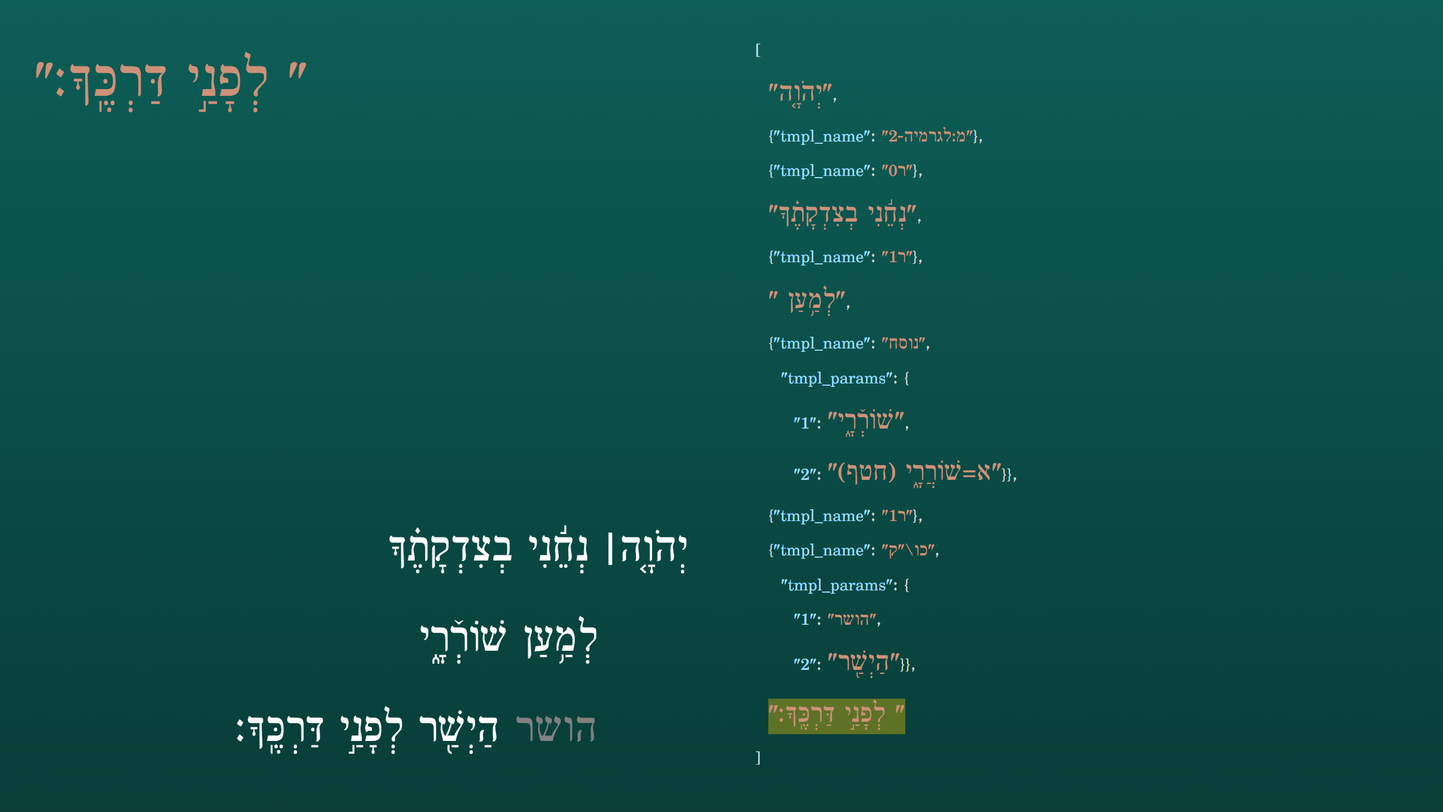
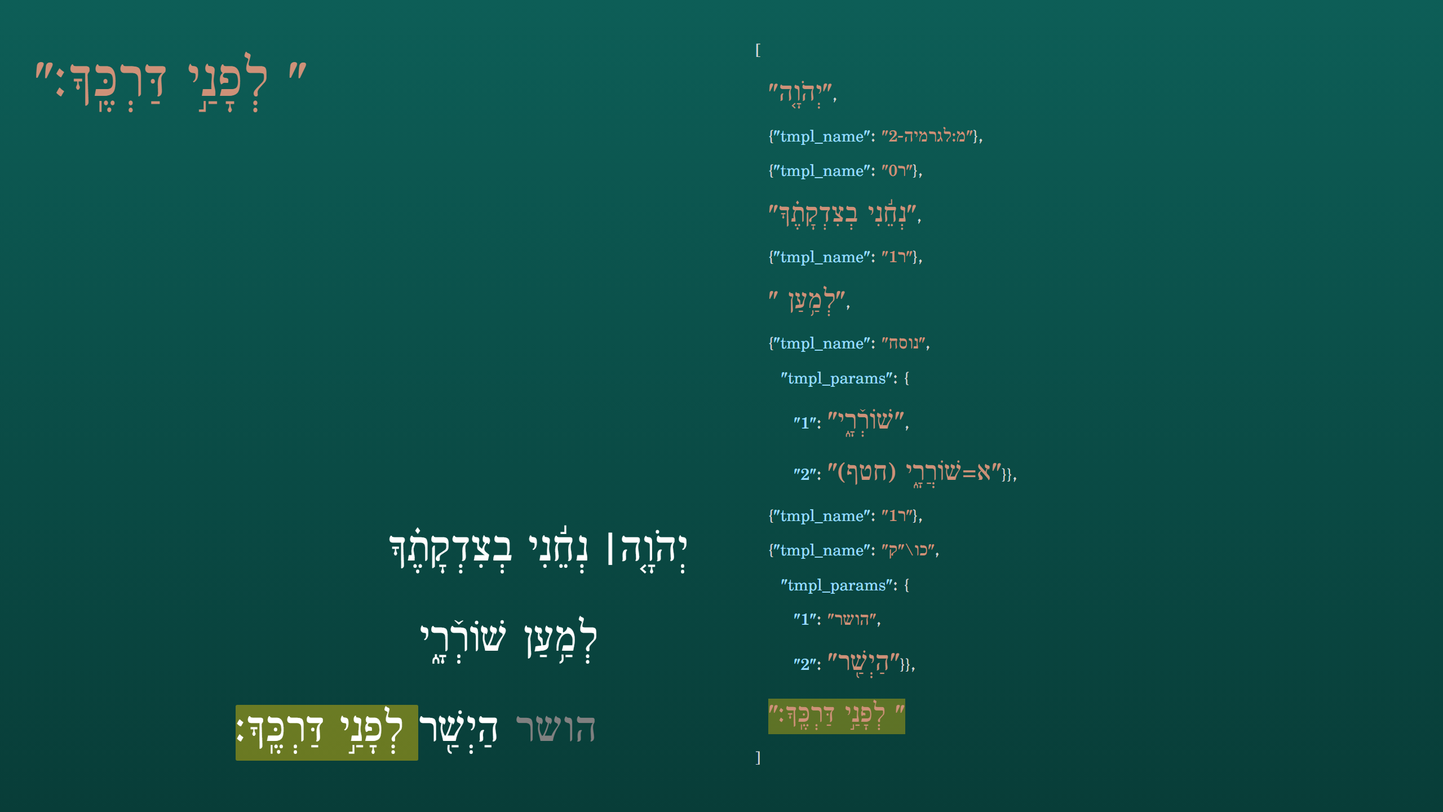
slide: replace companion_raw_replacements with companion_hl_ids mechanism
Introduce a cleaner approach for per-step companion-panel highlighting:

- Fragment (Psalm 5v9 Wikisource fragment.html): wrap every highlightable
  node in a span with a unique data-hl-id. rs1/rs2 (line-break symbols)
  and ind1/ind2 (indent spans) are now ordinary tagged elements; no
  display:none or class-based visibility tricks in the source.

- Engine (json_snippet_browser.py): collect scoped CSS rules of the form
  .step[data-step="N"] [data-hl-id="X"] { ... } during the step loop and
  inject them into the <head> stylesheet. The companion HTML is a single
  static string, unchanged across all steps. Remove companion_raw_replacements
  handling entirely.

- Step specs (mam_is_a_dataset.py): replace all companion_highlight_html
  and companion_raw_replacements keys with companion_hl_ids lists. Ensure
  coverage: thinsp is now inside the paseq span (step 2); step 9 covers
  hoshar + the space + hayashar; step 10 covers only the last JSON string.
  Every character in the verse is highlighted at exactly one step.

Changed region(s): [[0.1562, 0.8438, 0.3125, 0.9375]]

diff --git a/misc/mam-is-a-dataset/img-sources/slide-psalm-5v9-mpplus-interactive.html b/misc/mam-is-a-dataset/img-sources/slide-psalm-5v9-mpplus-interactive.html
@@ -48,6 +48,9 @@
     background-color: rgba(255, 210, 0, 0.4);
     border-radius: 3px;
   }
+  [data-hl-id="rs1"], [data-hl-id="rs2"] {
+    display: none;
+  }
   pre {
     font-family: 'Taamey', 'Consolas', monospace;
     font-size: 34px;
@@ -56,12 +59,26 @@
     unicode-bidi: normal;
     white-space: pre;
   }
+  .step[data-step="1"] [data-hl-id="yhvh"] { background-color: rgba(255,210,0,0.4); border-radius: 3px; display: inline; }
+  .step[data-step="2"] [data-hl-id="paseq"] { background-color: rgba(255,210,0,0.4); border-radius: 3px; display: inline; }
+  .step[data-step="3"] [data-hl-id="nbsp"] { background-color: rgba(255,210,0,0.4); border-radius: 3px; display: inline; }
+  .step[data-step="4"] [data-hl-id="text1"] { background-color: rgba(255,210,0,0.4); border-radius: 3px; display: inline; }
+  .step[data-step="5"] [data-hl-id="rs1"] { background-color: rgba(255,210,0,0.4); border-radius: 3px; display: inline; }
+  .step[data-step="5"] [data-hl-id="ind1"] { background-color: rgba(255,210,0,0.4); border-radius: 3px; display: inline; }
+  .step[data-step="6"] [data-hl-id="lmaan"] { background-color: rgba(255,210,0,0.4); border-radius: 3px; display: inline; }
+  .step[data-step="7"] [data-hl-id="shoraray"] { background-color: rgba(255,210,0,0.4); border-radius: 3px; display: inline; }
+  .step[data-step="8"] [data-hl-id="rs2"] { background-color: rgba(255,210,0,0.4); border-radius: 3px; display: inline; }
+  .step[data-step="8"] [data-hl-id="ind2"] { background-color: rgba(255,210,0,0.4); border-radius: 3px; display: inline; }
+  .step[data-step="9"] [data-hl-id="hoshar"] { background-color: rgba(255,210,0,0.4); border-radius: 3px; display: inline; }
+  .step[data-step="9"] [data-hl-id="kuk-space"] { background-color: rgba(255,210,0,0.4); border-radius: 3px; display: inline; }
+  .step[data-step="9"] [data-hl-id="hayashar"] { background-color: rgba(255,210,0,0.4); border-radius: 3px; display: inline; }
+  .step[data-step="10"] [data-hl-id="text3"] { background-color: rgba(255,210,0,0.4); border-radius: 3px; display: inline; }
 </style>
 </head>
 <body>
-<div class="step" data-step="0"><div class="col"><div class="companion-html"><div>יְהֹוָ֤ה&thinsp;<span style="font-weight: bold;">׀</span>&nbsp;נְחֵ֬נִי בְצִדְקָתֶ֗ךָ<span class="return-sym" style="display:none;">⏎</span></div>
-<div><span class="indent">&emsp;&emsp;</span>לְמַ֥עַן שׁוֹרְﬞרָ֑י</div>
-<div style="padding-right: 2em;"><span style="color:Gray;">הושר</span> הַיְשַׁ֖ר לְפָנַ֣י דַּרְכֶּֽךָ׃</div></div></div><div class="col" style="justify-content:flex-start"><pre><span style="color:#d4d4d4;">[</span><span style="color:#d4d4d4;">
+<div class="step" data-step="0"><div class="col"><div class="companion-html"><div><span data-hl-id="yhvh">יְהֹוָ֤ה</span><span data-hl-id="paseq">&thinsp;<span style="font-weight: bold;">׀</span></span><span data-hl-id="nbsp">&nbsp;</span><span data-hl-id="text1">נְחֵ֬נִי בְצִדְקָתֶ֗ךָ</span><span data-hl-id="rs1">⏎</span></div>
+<div><span data-hl-id="ind1">&emsp;&emsp;</span><span data-hl-id="lmaan">לְמַ֥עַן </span><span data-hl-id="shoraray">שׁוֹרְﬞרָ֑י</span><span data-hl-id="rs2">⏎</span></div>
+<div><span data-hl-id="ind2">&emsp;&emsp;</span><span data-hl-id="hoshar" style="color:Gray;">הושר</span><span data-hl-id="kuk-space"> </span><span data-hl-id="hayashar">הַיְשַׁ֖ר</span><span data-hl-id="text3"> לְפָנַ֣י דַּרְכֶּֽךָ׃</span></div></div></div><div class="col" style="justify-content:flex-start"><pre><span style="color:#d4d4d4;">[</span><span style="color:#d4d4d4;">
   </span><bdi><span style="color:#ce9178; font-size:51px; font-feature-settings:'ss03'">"יְהֹוָ֤ה"</span></bdi><span style="color:#d4d4d4;">,</span><span style="color:#d4d4d4;">
   </span><span style="color:#d4d4d4;">{</span><span style="color:#9cdcfe;">"tmpl_name"</span><span style="color:#d4d4d4;">:</span><span style="color:#d4d4d4;"> </span><bdi><span style="color:#ce9178;">"מ:לגרמיה-2"</span></bdi><span style="color:#d4d4d4;">},</span><span style="color:#d4d4d4;">
   </span><span style="color:#d4d4d4;">{</span><span style="color:#9cdcfe;">"tmpl_name"</span><span style="color:#d4d4d4;">:</span><span style="color:#d4d4d4;"> </span><bdi><span style="color:#ce9178;">"ר0"</span></bdi><span style="color:#d4d4d4;">},</span><span style="color:#d4d4d4;">
@@ -80,9 +97,9 @@
   </span><bdi><span style="color:#ce9178; font-size:51px; font-feature-settings:'ss03'">" לְפָנַ֣י דַּרְכֶּֽךָ׃"</span></bdi><span style="color:#d4d4d4;">
 </span><span style="color:#d4d4d4;">]</span><span style="color:#d4d4d4;">
 </span></pre></div></div>
-<div class="step" data-step="1"><div class="col" style="flex:2;flex-direction:column;justify-content:space-between;align-items:flex-start"><pre><bdi><span style="color:#ce9178; font-size:102px; font-feature-settings:'ss03'">"יְהֹוָ֤ה"</span></bdi></pre><div class="companion-html"><div><span class="hl">יְהֹוָ֤ה</span>&thinsp;<span style="font-weight: bold;">׀</span>&nbsp;נְחֵ֬נִי בְצִדְקָתֶ֗ךָ<span class="return-sym" style="display:none;">⏎</span></div>
-<div><span class="indent">&emsp;&emsp;</span>לְמַ֥עַן שׁוֹרְﬞרָ֑י</div>
-<div style="padding-right: 2em;"><span style="color:Gray;">הושר</span> הַיְשַׁ֖ר לְפָנַ֣י דַּרְכֶּֽךָ׃</div></div></div><div class="col" style="flex:2;justify-content:flex-start"><pre><span style="color:#d4d4d4;">[</span><span style="color:#d4d4d4;">
+<div class="step" data-step="1"><div class="col" style="flex:2;flex-direction:column;justify-content:space-between;align-items:flex-start"><pre><bdi><span style="color:#ce9178; font-size:102px; font-feature-settings:'ss03'">"יְהֹוָ֤ה"</span></bdi></pre><div class="companion-html"><div><span data-hl-id="yhvh">יְהֹוָ֤ה</span><span data-hl-id="paseq">&thinsp;<span style="font-weight: bold;">׀</span></span><span data-hl-id="nbsp">&nbsp;</span><span data-hl-id="text1">נְחֵ֬נִי בְצִדְקָתֶ֗ךָ</span><span data-hl-id="rs1">⏎</span></div>
+<div><span data-hl-id="ind1">&emsp;&emsp;</span><span data-hl-id="lmaan">לְמַ֥עַן </span><span data-hl-id="shoraray">שׁוֹרְﬞרָ֑י</span><span data-hl-id="rs2">⏎</span></div>
+<div><span data-hl-id="ind2">&emsp;&emsp;</span><span data-hl-id="hoshar" style="color:Gray;">הושר</span><span data-hl-id="kuk-space"> </span><span data-hl-id="hayashar">הַיְשַׁ֖ר</span><span data-hl-id="text3"> לְפָנַ֣י דַּרְכֶּֽךָ׃</span></div></div></div><div class="col" style="flex:2;justify-content:flex-start"><pre><span style="color:#d4d4d4;">[</span><span style="color:#d4d4d4;">
   </span><bdi><span style="color:#ce9178; background-color:rgba(255,210,0,0.35); font-size:51px; font-feature-settings:'ss03'">"יְהֹוָ֤ה"</span></bdi><span style="color:#d4d4d4;">,</span><span style="color:#d4d4d4;">
   </span><span style="color:#d4d4d4;">{</span><span style="color:#9cdcfe;">"tmpl_name"</span><span style="color:#d4d4d4;">:</span><span style="color:#d4d4d4;"> </span><bdi><span style="color:#ce9178;">"מ:לגרמיה-2"</span></bdi><span style="color:#d4d4d4;">},</span><span style="color:#d4d4d4;">
   </span><span style="color:#d4d4d4;">{</span><span style="color:#9cdcfe;">"tmpl_name"</span><span style="color:#d4d4d4;">:</span><span style="color:#d4d4d4;"> </span><bdi><span style="color:#ce9178;">"ר0"</span></bdi><span style="color:#d4d4d4;">},</span><span style="color:#d4d4d4;">
@@ -101,9 +118,9 @@
   </span><bdi><span style="color:#ce9178; font-size:51px; font-feature-settings:'ss03'">" לְפָנַ֣י דַּרְכֶּֽךָ׃"</span></bdi><span style="color:#d4d4d4;">
 </span><span style="color:#d4d4d4;">]</span><span style="color:#d4d4d4;">
 </span></pre></div></div>
-<div class="step" data-step="2"><div class="col" style="flex:2;flex-direction:column;justify-content:space-between;align-items:flex-start"><pre><span style="color:#d4d4d4; font-size:102px; font-feature-settings:'ss03'">{</span><span style="color:#9cdcfe; font-size:102px; font-feature-settings:'ss03'">"tmpl_name"</span><span style="color:#d4d4d4; font-size:102px; font-feature-settings:'ss03'">:</span><span style="color:#d4d4d4; font-size:102px; font-feature-settings:'ss03'"> </span><bdi><span style="color:#ce9178; font-size:102px; font-feature-settings:'ss03'">"מ:לגרמיה-2"</span></bdi><span style="color:#d4d4d4; font-size:102px; font-feature-settings:'ss03'">}</span></pre><div class="companion-html"><div>יְהֹוָ֤ה<span class="hl">&thinsp;<span style="font-weight: bold;">׀</span></span>&nbsp;נְחֵ֬נִי בְצִדְקָתֶ֗ךָ<span class="return-sym" style="display:none;">⏎</span></div>
-<div><span class="indent">&emsp;&emsp;</span>לְמַ֥עַן שׁוֹרְﬞרָ֑י</div>
-<div style="padding-right: 2em;"><span style="color:Gray;">הושר</span> הַיְשַׁ֖ר לְפָנַ֣י דַּרְכֶּֽךָ׃</div></div></div><div class="col" style="flex:2;justify-content:flex-start"><pre><span style="color:#d4d4d4;">[</span><span style="color:#d4d4d4;">
+<div class="step" data-step="2"><div class="col" style="flex:2;flex-direction:column;justify-content:space-between;align-items:flex-start"><pre><span style="color:#d4d4d4; font-size:102px; font-feature-settings:'ss03'">{</span><span style="color:#9cdcfe; font-size:102px; font-feature-settings:'ss03'">"tmpl_name"</span><span style="color:#d4d4d4; font-size:102px; font-feature-settings:'ss03'">:</span><span style="color:#d4d4d4; font-size:102px; font-feature-settings:'ss03'"> </span><bdi><span style="color:#ce9178; font-size:102px; font-feature-settings:'ss03'">"מ:לגרמיה-2"</span></bdi><span style="color:#d4d4d4; font-size:102px; font-feature-settings:'ss03'">}</span></pre><div class="companion-html"><div><span data-hl-id="yhvh">יְהֹוָ֤ה</span><span data-hl-id="paseq">&thinsp;<span style="font-weight: bold;">׀</span></span><span data-hl-id="nbsp">&nbsp;</span><span data-hl-id="text1">נְחֵ֬נִי בְצִדְקָתֶ֗ךָ</span><span data-hl-id="rs1">⏎</span></div>
+<div><span data-hl-id="ind1">&emsp;&emsp;</span><span data-hl-id="lmaan">לְמַ֥עַן </span><span data-hl-id="shoraray">שׁוֹרְﬞרָ֑י</span><span data-hl-id="rs2">⏎</span></div>
+<div><span data-hl-id="ind2">&emsp;&emsp;</span><span data-hl-id="hoshar" style="color:Gray;">הושר</span><span data-hl-id="kuk-space"> </span><span data-hl-id="hayashar">הַיְשַׁ֖ר</span><span data-hl-id="text3"> לְפָנַ֣י דַּרְכֶּֽךָ׃</span></div></div></div><div class="col" style="flex:2;justify-content:flex-start"><pre><span style="color:#d4d4d4;">[</span><span style="color:#d4d4d4;">
   </span><bdi><span style="color:#ce9178; font-size:51px; font-feature-settings:'ss03'">"יְהֹוָ֤ה"</span></bdi><span style="color:#d4d4d4;">,</span><span style="color:#d4d4d4;">
   </span><span style="color:#d4d4d4; background-color:rgba(255,210,0,0.35);">{</span><span style="color:#9cdcfe; background-color:rgba(255,210,0,0.35);">"tmpl_name"</span><span style="color:#d4d4d4; background-color:rgba(255,210,0,0.35);">:</span><span style="color:#d4d4d4; background-color:rgba(255,210,0,0.35);"> </span><bdi><span style="color:#ce9178; background-color:rgba(255,210,0,0.35);">"מ:לגרמיה-2"</span></bdi><span style="color:#d4d4d4; background-color:rgba(255,210,0,0.35);">}</span><span style="color:#d4d4d4;">,</span><span style="color:#d4d4d4;">
   </span><span style="color:#d4d4d4;">{</span><span style="color:#9cdcfe;">"tmpl_name"</span><span style="color:#d4d4d4;">:</span><span style="color:#d4d4d4;"> </span><bdi><span style="color:#ce9178;">"ר0"</span></bdi><span style="color:#d4d4d4;">},</span><span style="color:#d4d4d4;">
@@ -122,9 +139,9 @@
   </span><bdi><span style="color:#ce9178; font-size:51px; font-feature-settings:'ss03'">" לְפָנַ֣י דַּרְכֶּֽךָ׃"</span></bdi><span style="color:#d4d4d4;">
 </span><span style="color:#d4d4d4;">]</span><span style="color:#d4d4d4;">
 </span></pre></div></div>
-<div class="step" data-step="3"><div class="col" style="flex:2;flex-direction:column;justify-content:space-between;align-items:flex-start"><pre><span style="color:#d4d4d4; font-size:102px; font-feature-settings:'ss03'">{</span><span style="color:#9cdcfe; font-size:102px; font-feature-settings:'ss03'">"tmpl_name"</span><span style="color:#d4d4d4; font-size:102px; font-feature-settings:'ss03'">:</span><span style="color:#d4d4d4; font-size:102px; font-feature-settings:'ss03'"> </span><bdi><span style="color:#ce9178; font-size:102px; font-feature-settings:'ss03'">"ר0"</span></bdi><span style="color:#d4d4d4; font-size:102px; font-feature-settings:'ss03'">}</span></pre><div class="companion-html"><div>יְהֹוָ֤ה&thinsp;<span style="font-weight: bold;">׀</span><span class="hl">&nbsp;</span>נְחֵ֬נִי בְצִדְקָתֶ֗ךָ<span class="return-sym" style="display:none;">⏎</span></div>
-<div><span class="indent">&emsp;&emsp;</span>לְמַ֥עַן שׁוֹרְﬞרָ֑י</div>
-<div style="padding-right: 2em;"><span style="color:Gray;">הושר</span> הַיְשַׁ֖ר לְפָנַ֣י דַּרְכֶּֽךָ׃</div></div></div><div class="col" style="flex:2;justify-content:flex-start"><pre><span style="color:#d4d4d4;">[</span><span style="color:#d4d4d4;">
+<div class="step" data-step="3"><div class="col" style="flex:2;flex-direction:column;justify-content:space-between;align-items:flex-start"><pre><span style="color:#d4d4d4; font-size:102px; font-feature-settings:'ss03'">{</span><span style="color:#9cdcfe; font-size:102px; font-feature-settings:'ss03'">"tmpl_name"</span><span style="color:#d4d4d4; font-size:102px; font-feature-settings:'ss03'">:</span><span style="color:#d4d4d4; font-size:102px; font-feature-settings:'ss03'"> </span><bdi><span style="color:#ce9178; font-size:102px; font-feature-settings:'ss03'">"ר0"</span></bdi><span style="color:#d4d4d4; font-size:102px; font-feature-settings:'ss03'">}</span></pre><div class="companion-html"><div><span data-hl-id="yhvh">יְהֹוָ֤ה</span><span data-hl-id="paseq">&thinsp;<span style="font-weight: bold;">׀</span></span><span data-hl-id="nbsp">&nbsp;</span><span data-hl-id="text1">נְחֵ֬נִי בְצִדְקָתֶ֗ךָ</span><span data-hl-id="rs1">⏎</span></div>
+<div><span data-hl-id="ind1">&emsp;&emsp;</span><span data-hl-id="lmaan">לְמַ֥עַן </span><span data-hl-id="shoraray">שׁוֹרְﬞרָ֑י</span><span data-hl-id="rs2">⏎</span></div>
+<div><span data-hl-id="ind2">&emsp;&emsp;</span><span data-hl-id="hoshar" style="color:Gray;">הושר</span><span data-hl-id="kuk-space"> </span><span data-hl-id="hayashar">הַיְשַׁ֖ר</span><span data-hl-id="text3"> לְפָנַ֣י דַּרְכֶּֽךָ׃</span></div></div></div><div class="col" style="flex:2;justify-content:flex-start"><pre><span style="color:#d4d4d4;">[</span><span style="color:#d4d4d4;">
   </span><bdi><span style="color:#ce9178; font-size:51px; font-feature-settings:'ss03'">"יְהֹוָ֤ה"</span></bdi><span style="color:#d4d4d4;">,</span><span style="color:#d4d4d4;">
   </span><span style="color:#d4d4d4;">{</span><span style="color:#9cdcfe;">"tmpl_name"</span><span style="color:#d4d4d4;">:</span><span style="color:#d4d4d4;"> </span><bdi><span style="color:#ce9178;">"מ:לגרמיה-2"</span></bdi><span style="color:#d4d4d4;">},</span><span style="color:#d4d4d4;">
   </span><span style="color:#d4d4d4; background-color:rgba(255,210,0,0.35);">{</span><span style="color:#9cdcfe; background-color:rgba(255,210,0,0.35);">"tmpl_name"</span><span style="color:#d4d4d4; background-color:rgba(255,210,0,0.35);">:</span><span style="color:#d4d4d4; background-color:rgba(255,210,0,0.35);"> </span><bdi><span style="color:#ce9178; background-color:rgba(255,210,0,0.35);">"ר0"</span></bdi><span style="color:#d4d4d4; background-color:rgba(255,210,0,0.35);">}</span><span style="color:#d4d4d4;">,</span><span style="color:#d4d4d4;">
@@ -143,9 +160,9 @@
   </span><bdi><span style="color:#ce9178; font-size:51px; font-feature-settings:'ss03'">" לְפָנַ֣י דַּרְכֶּֽךָ׃"</span></bdi><span style="color:#d4d4d4;">
 </span><span style="color:#d4d4d4;">]</span><span style="color:#d4d4d4;">
 </span></pre></div></div>
-<div class="step" data-step="4"><div class="col" style="flex:2;flex-direction:column;justify-content:space-between;align-items:flex-start"><pre><bdi><span style="color:#ce9178; font-size:102px; font-feature-settings:'ss03'">"נְחֵ֬נִי בְצִדְקָתֶ֗ךָ"</span></bdi></pre><div class="companion-html"><div>יְהֹוָ֤ה&thinsp;<span style="font-weight: bold;">׀</span>&nbsp;<span class="hl">נְחֵ֬נִי בְצִדְקָתֶ֗ךָ</span><span class="return-sym" style="display:none;">⏎</span></div>
-<div><span class="indent">&emsp;&emsp;</span>לְמַ֥עַן שׁוֹרְﬞרָ֑י</div>
-<div style="padding-right: 2em;"><span style="color:Gray;">הושר</span> הַיְשַׁ֖ר לְפָנַ֣י דַּרְכֶּֽךָ׃</div></div></div><div class="col" style="flex:2;justify-content:flex-start"><pre><span style="color:#d4d4d4;">[</span><span style="color:#d4d4d4;">
+<div class="step" data-step="4"><div class="col" style="flex:2;flex-direction:column;justify-content:space-between;align-items:flex-start"><pre><bdi><span style="color:#ce9178; font-size:102px; font-feature-settings:'ss03'">"נְחֵ֬נִי בְצִדְקָתֶ֗ךָ"</span></bdi></pre><div class="companion-html"><div><span data-hl-id="yhvh">יְהֹוָ֤ה</span><span data-hl-id="paseq">&thinsp;<span style="font-weight: bold;">׀</span></span><span data-hl-id="nbsp">&nbsp;</span><span data-hl-id="text1">נְחֵ֬נִי בְצִדְקָתֶ֗ךָ</span><span data-hl-id="rs1">⏎</span></div>
+<div><span data-hl-id="ind1">&emsp;&emsp;</span><span data-hl-id="lmaan">לְמַ֥עַן </span><span data-hl-id="shoraray">שׁוֹרְﬞרָ֑י</span><span data-hl-id="rs2">⏎</span></div>
+<div><span data-hl-id="ind2">&emsp;&emsp;</span><span data-hl-id="hoshar" style="color:Gray;">הושר</span><span data-hl-id="kuk-space"> </span><span data-hl-id="hayashar">הַיְשַׁ֖ר</span><span data-hl-id="text3"> לְפָנַ֣י דַּרְכֶּֽךָ׃</span></div></div></div><div class="col" style="flex:2;justify-content:flex-start"><pre><span style="color:#d4d4d4;">[</span><span style="color:#d4d4d4;">
   </span><bdi><span style="color:#ce9178; font-size:51px; font-feature-settings:'ss03'">"יְהֹוָ֤ה"</span></bdi><span style="color:#d4d4d4;">,</span><span style="color:#d4d4d4;">
   </span><span style="color:#d4d4d4;">{</span><span style="color:#9cdcfe;">"tmpl_name"</span><span style="color:#d4d4d4;">:</span><span style="color:#d4d4d4;"> </span><bdi><span style="color:#ce9178;">"מ:לגרמיה-2"</span></bdi><span style="color:#d4d4d4;">},</span><span style="color:#d4d4d4;">
   </span><span style="color:#d4d4d4;">{</span><span style="color:#9cdcfe;">"tmpl_name"</span><span style="color:#d4d4d4;">:</span><span style="color:#d4d4d4;"> </span><bdi><span style="color:#ce9178;">"ר0"</span></bdi><span style="color:#d4d4d4;">},</span><span style="color:#d4d4d4;">
@@ -164,9 +181,9 @@
   </span><bdi><span style="color:#ce9178; font-size:51px; font-feature-settings:'ss03'">" לְפָנַ֣י דַּרְכֶּֽךָ׃"</span></bdi><span style="color:#d4d4d4;">
 </span><span style="color:#d4d4d4;">]</span><span style="color:#d4d4d4;">
 </span></pre></div></div>
-<div class="step" data-step="5"><div class="col" style="flex:2;flex-direction:column;justify-content:space-between;align-items:flex-start"><pre><span style="color:#d4d4d4; font-size:102px; font-feature-settings:'ss03'">{</span><span style="color:#9cdcfe; font-size:102px; font-feature-settings:'ss03'">"tmpl_name"</span><span style="color:#d4d4d4; font-size:102px; font-feature-settings:'ss03'">:</span><span style="color:#d4d4d4; font-size:102px; font-feature-settings:'ss03'"> </span><bdi><span style="color:#ce9178; font-size:102px; font-feature-settings:'ss03'">"ר1"</span></bdi><span style="color:#d4d4d4; font-size:102px; font-feature-settings:'ss03'">}</span></pre><div class="companion-html"><div>יְהֹוָ֤ה&thinsp;<span style="font-weight: bold;">׀</span>&nbsp;נְחֵ֬נִי בְצִדְקָתֶ֗ךָ<span class="return-sym hl">⏎</span></div>
-<div><span class="indent hl">&emsp;&emsp;</span>לְמַ֥עַן שׁוֹרְﬞרָ֑י</div>
-<div style="padding-right: 2em;"><span style="color:Gray;">הושר</span> הַיְשַׁ֖ר לְפָנַ֣י דַּרְכֶּֽךָ׃</div></div></div><div class="col" style="flex:2;justify-content:flex-start"><pre><span style="color:#d4d4d4;">[</span><span style="color:#d4d4d4;">
+<div class="step" data-step="5"><div class="col" style="flex:2;flex-direction:column;justify-content:space-between;align-items:flex-start"><pre><span style="color:#d4d4d4; font-size:102px; font-feature-settings:'ss03'">{</span><span style="color:#9cdcfe; font-size:102px; font-feature-settings:'ss03'">"tmpl_name"</span><span style="color:#d4d4d4; font-size:102px; font-feature-settings:'ss03'">:</span><span style="color:#d4d4d4; font-size:102px; font-feature-settings:'ss03'"> </span><bdi><span style="color:#ce9178; font-size:102px; font-feature-settings:'ss03'">"ר1"</span></bdi><span style="color:#d4d4d4; font-size:102px; font-feature-settings:'ss03'">}</span></pre><div class="companion-html"><div><span data-hl-id="yhvh">יְהֹוָ֤ה</span><span data-hl-id="paseq">&thinsp;<span style="font-weight: bold;">׀</span></span><span data-hl-id="nbsp">&nbsp;</span><span data-hl-id="text1">נְחֵ֬נִי בְצִדְקָתֶ֗ךָ</span><span data-hl-id="rs1">⏎</span></div>
+<div><span data-hl-id="ind1">&emsp;&emsp;</span><span data-hl-id="lmaan">לְמַ֥עַן </span><span data-hl-id="shoraray">שׁוֹרְﬞרָ֑י</span><span data-hl-id="rs2">⏎</span></div>
+<div><span data-hl-id="ind2">&emsp;&emsp;</span><span data-hl-id="hoshar" style="color:Gray;">הושר</span><span data-hl-id="kuk-space"> </span><span data-hl-id="hayashar">הַיְשַׁ֖ר</span><span data-hl-id="text3"> לְפָנַ֣י דַּרְכֶּֽךָ׃</span></div></div></div><div class="col" style="flex:2;justify-content:flex-start"><pre><span style="color:#d4d4d4;">[</span><span style="color:#d4d4d4;">
   </span><bdi><span style="color:#ce9178; font-size:51px; font-feature-settings:'ss03'">"יְהֹוָ֤ה"</span></bdi><span style="color:#d4d4d4;">,</span><span style="color:#d4d4d4;">
   </span><span style="color:#d4d4d4;">{</span><span style="color:#9cdcfe;">"tmpl_name"</span><span style="color:#d4d4d4;">:</span><span style="color:#d4d4d4;"> </span><bdi><span style="color:#ce9178;">"מ:לגרמיה-2"</span></bdi><span style="color:#d4d4d4;">},</span><span style="color:#d4d4d4;">
   </span><span style="color:#d4d4d4;">{</span><span style="color:#9cdcfe;">"tmpl_name"</span><span style="color:#d4d4d4;">:</span><span style="color:#d4d4d4;"> </span><bdi><span style="color:#ce9178;">"ר0"</span></bdi><span style="color:#d4d4d4;">},</span><span style="color:#d4d4d4;">
@@ -185,9 +202,9 @@
   </span><bdi><span style="color:#ce9178; font-size:51px; font-feature-settings:'ss03'">" לְפָנַ֣י דַּרְכֶּֽךָ׃"</span></bdi><span style="color:#d4d4d4;">
 </span><span style="color:#d4d4d4;">]</span><span style="color:#d4d4d4;">
 </span></pre></div></div>
-<div class="step" data-step="6"><div class="col" style="flex:2;flex-direction:column;justify-content:space-between;align-items:flex-start"><pre><bdi><span style="color:#ce9178; font-size:102px; font-feature-settings:'ss03'">"לְמַ֥עַן "</span></bdi></pre><div class="companion-html"><div>יְהֹוָ֤ה&thinsp;<span style="font-weight: bold;">׀</span>&nbsp;נְחֵ֬נִי בְצִדְקָתֶ֗ךָ<span class="return-sym" style="display:none;">⏎</span></div>
-<div><span class="indent">&emsp;&emsp;</span><span class="hl">לְמַ֥עַן </span>שׁוֹרְﬞרָ֑י</div>
-<div style="padding-right: 2em;"><span style="color:Gray;">הושר</span> הַיְשַׁ֖ר לְפָנַ֣י דַּרְכֶּֽךָ׃</div></div></div><div class="col" style="flex:2;justify-content:flex-start"><pre><span style="color:#d4d4d4;">[</span><span style="color:#d4d4d4;">
+<div class="step" data-step="6"><div class="col" style="flex:2;flex-direction:column;justify-content:space-between;align-items:flex-start"><pre><bdi><span style="color:#ce9178; font-size:102px; font-feature-settings:'ss03'">"לְמַ֥עַן "</span></bdi></pre><div class="companion-html"><div><span data-hl-id="yhvh">יְהֹוָ֤ה</span><span data-hl-id="paseq">&thinsp;<span style="font-weight: bold;">׀</span></span><span data-hl-id="nbsp">&nbsp;</span><span data-hl-id="text1">נְחֵ֬נִי בְצִדְקָתֶ֗ךָ</span><span data-hl-id="rs1">⏎</span></div>
+<div><span data-hl-id="ind1">&emsp;&emsp;</span><span data-hl-id="lmaan">לְמַ֥עַן </span><span data-hl-id="shoraray">שׁוֹרְﬞרָ֑י</span><span data-hl-id="rs2">⏎</span></div>
+<div><span data-hl-id="ind2">&emsp;&emsp;</span><span data-hl-id="hoshar" style="color:Gray;">הושר</span><span data-hl-id="kuk-space"> </span><span data-hl-id="hayashar">הַיְשַׁ֖ר</span><span data-hl-id="text3"> לְפָנַ֣י דַּרְכֶּֽךָ׃</span></div></div></div><div class="col" style="flex:2;justify-content:flex-start"><pre><span style="color:#d4d4d4;">[</span><span style="color:#d4d4d4;">
   </span><bdi><span style="color:#ce9178; font-size:51px; font-feature-settings:'ss03'">"יְהֹוָ֤ה"</span></bdi><span style="color:#d4d4d4;">,</span><span style="color:#d4d4d4;">
   </span><span style="color:#d4d4d4;">{</span><span style="color:#9cdcfe;">"tmpl_name"</span><span style="color:#d4d4d4;">:</span><span style="color:#d4d4d4;"> </span><bdi><span style="color:#ce9178;">"מ:לגרמיה-2"</span></bdi><span style="color:#d4d4d4;">},</span><span style="color:#d4d4d4;">
   </span><span style="color:#d4d4d4;">{</span><span style="color:#9cdcfe;">"tmpl_name"</span><span style="color:#d4d4d4;">:</span><span style="color:#d4d4d4;"> </span><bdi><span style="color:#ce9178;">"ר0"</span></bdi><span style="color:#d4d4d4;">},</span><span style="color:#d4d4d4;">
@@ -209,9 +226,9 @@
 <div class="step" data-step="7"><div class="col" style="flex:2;flex-direction:column;justify-content:space-between;align-items:flex-start"><pre><span style="color:#d4d4d4; font-size:102px; font-feature-settings:'ss03'">{</span><span style="color:#9cdcfe; font-size:102px; font-feature-settings:'ss03'">"tmpl_name"</span><span style="color:#d4d4d4; font-size:102px; font-feature-settings:'ss03'">:</span><span style="color:#d4d4d4; font-size:102px; font-feature-settings:'ss03'"> </span><bdi><span style="color:#ce9178; font-size:102px; font-feature-settings:'ss03'">"נוסח"</span></bdi><span style="color:#d4d4d4; font-size:102px; font-feature-settings:'ss03'">,</span><span style="color:#d4d4d4; font-size:102px; font-feature-settings:'ss03'">
     </span><span style="color:#9cdcfe; font-size:102px; font-feature-settings:'ss03'">"tmpl_params"</span><span style="color:#d4d4d4; font-size:102px; font-feature-settings:'ss03'">:</span><span style="color:#d4d4d4; font-size:102px; font-feature-settings:'ss03'"> </span><span style="color:#d4d4d4; font-size:102px; font-feature-settings:'ss03'">{</span><span style="color:#d4d4d4; font-size:102px; font-feature-settings:'ss03'">
       </span><span style="color:#9cdcfe; font-size:102px; font-feature-settings:'ss03'">"1"</span><span style="color:#d4d4d4; font-size:102px; font-feature-settings:'ss03'">:</span><span style="color:#d4d4d4; font-size:102px; font-feature-settings:'ss03'"> </span><bdi><span style="color:#ce9178; font-size:102px; font-feature-settings:'ss03'">"שׁוֹרְﬞרָ֑י"</span></bdi><span style="color:#d4d4d4; font-size:102px; font-feature-settings:'ss03'">,</span><span style="color:#d4d4d4; font-size:102px; font-feature-settings:'ss03'">
-      </span><span style="color:#9cdcfe; font-size:102px; font-feature-settings:'ss03'">"2"</span><span style="color:#d4d4d4; font-size:102px; font-feature-settings:'ss03'">:</span><span style="color:#d4d4d4; font-size:102px; font-feature-settings:'ss03'"> </span><bdi><span style="color:#ce9178; font-size:102px; font-feature-settings:'ss03'">"א=שׁוֹרֲרָ֑י (חטף)"</span></bdi><span style="color:#d4d4d4; font-size:102px; font-feature-settings:'ss03'">}}</span></pre><div class="companion-html"><div>יְהֹוָ֤ה&thinsp;<span style="font-weight: bold;">׀</span>&nbsp;נְחֵ֬נִי בְצִדְקָתֶ֗ךָ<span class="return-sym" style="display:none;">⏎</span></div>
-<div><span class="indent">&emsp;&emsp;</span>לְמַ֥עַן <span class="hl">שׁוֹרְﬞרָ֑י</span></div>
-<div style="padding-right: 2em;"><span style="color:Gray;">הושר</span> הַיְשַׁ֖ר לְפָנַ֣י דַּרְכֶּֽךָ׃</div></div></div><div class="col" style="flex:2;justify-content:flex-start"><pre><span style="color:#d4d4d4;">[</span><span style="color:#d4d4d4;">
+      </span><span style="color:#9cdcfe; font-size:102px; font-feature-settings:'ss03'">"2"</span><span style="color:#d4d4d4; font-size:102px; font-feature-settings:'ss03'">:</span><span style="color:#d4d4d4; font-size:102px; font-feature-settings:'ss03'"> </span><bdi><span style="color:#ce9178; font-size:102px; font-feature-settings:'ss03'">"א=שׁוֹרֲרָ֑י (חטף)"</span></bdi><span style="color:#d4d4d4; font-size:102px; font-feature-settings:'ss03'">}}</span></pre><div class="companion-html"><div><span data-hl-id="yhvh">יְהֹוָ֤ה</span><span data-hl-id="paseq">&thinsp;<span style="font-weight: bold;">׀</span></span><span data-hl-id="nbsp">&nbsp;</span><span data-hl-id="text1">נְחֵ֬נִי בְצִדְקָתֶ֗ךָ</span><span data-hl-id="rs1">⏎</span></div>
+<div><span data-hl-id="ind1">&emsp;&emsp;</span><span data-hl-id="lmaan">לְמַ֥עַן </span><span data-hl-id="shoraray">שׁוֹרְﬞרָ֑י</span><span data-hl-id="rs2">⏎</span></div>
+<div><span data-hl-id="ind2">&emsp;&emsp;</span><span data-hl-id="hoshar" style="color:Gray;">הושר</span><span data-hl-id="kuk-space"> </span><span data-hl-id="hayashar">הַיְשַׁ֖ר</span><span data-hl-id="text3"> לְפָנַ֣י דַּרְכֶּֽךָ׃</span></div></div></div><div class="col" style="flex:2;justify-content:flex-start"><pre><span style="color:#d4d4d4;">[</span><span style="color:#d4d4d4;">
   </span><bdi><span style="color:#ce9178; font-size:51px; font-feature-settings:'ss03'">"יְהֹוָ֤ה"</span></bdi><span style="color:#d4d4d4;">,</span><span style="color:#d4d4d4;">
   </span><span style="color:#d4d4d4;">{</span><span style="color:#9cdcfe;">"tmpl_name"</span><span style="color:#d4d4d4;">:</span><span style="color:#d4d4d4;"> </span><bdi><span style="color:#ce9178;">"מ:לגרמיה-2"</span></bdi><span style="color:#d4d4d4;">},</span><span style="color:#d4d4d4;">
   </span><span style="color:#d4d4d4;">{</span><span style="color:#9cdcfe;">"tmpl_name"</span><span style="color:#d4d4d4;">:</span><span style="color:#d4d4d4;"> </span><bdi><span style="color:#ce9178;">"ר0"</span></bdi><span style="color:#d4d4d4;">},</span><span style="color:#d4d4d4;">
@@ -230,9 +247,9 @@
   </span><bdi><span style="color:#ce9178; font-size:51px; font-feature-settings:'ss03'">" לְפָנַ֣י דַּרְכֶּֽךָ׃"</span></bdi><span style="color:#d4d4d4;">
 </span><span style="color:#d4d4d4;">]</span><span style="color:#d4d4d4;">
 </span></pre></div></div>
-<div class="step" data-step="8"><div class="col" style="flex:2;flex-direction:column;justify-content:space-between;align-items:flex-start"><pre><span style="color:#d4d4d4; font-size:102px; font-feature-settings:'ss03'">{</span><span style="color:#9cdcfe; font-size:102px; font-feature-settings:'ss03'">"tmpl_name"</span><span style="color:#d4d4d4; font-size:102px; font-feature-settings:'ss03'">:</span><span style="color:#d4d4d4; font-size:102px; font-feature-settings:'ss03'"> </span><bdi><span style="color:#ce9178; font-size:102px; font-feature-settings:'ss03'">"ר1"</span></bdi><span style="color:#d4d4d4; font-size:102px; font-feature-settings:'ss03'">}</span></pre><div class="companion-html"><div>יְהֹוָ֤ה&thinsp;<span style="font-weight: bold;">׀</span>&nbsp;נְחֵ֬נִי בְצִדְקָתֶ֗ךָ<span class="return-sym" style="display:none;">⏎</span></div>
-<div><span class="indent">&emsp;&emsp;</span>לְמַ֥עַן שׁוֹרְﬞרָ֑י</div>
-<div style="padding-right: 2em;"><span style="color:Gray;">הושר</span> הַיְשַׁ֖ר לְפָנַ֣י דַּרְכֶּֽךָ׃</div></div></div><div class="col" style="flex:2;justify-content:flex-start"><pre><span style="color:#d4d4d4;">[</span><span style="color:#d4d4d4;">
+<div class="step" data-step="8"><div class="col" style="flex:2;flex-direction:column;justify-content:space-between;align-items:flex-start"><pre><span style="color:#d4d4d4; font-size:102px; font-feature-settings:'ss03'">{</span><span style="color:#9cdcfe; font-size:102px; font-feature-settings:'ss03'">"tmpl_name"</span><span style="color:#d4d4d4; font-size:102px; font-feature-settings:'ss03'">:</span><span style="color:#d4d4d4; font-size:102px; font-feature-settings:'ss03'"> </span><bdi><span style="color:#ce9178; font-size:102px; font-feature-settings:'ss03'">"ר1"</span></bdi><span style="color:#d4d4d4; font-size:102px; font-feature-settings:'ss03'">}</span></pre><div class="companion-html"><div><span data-hl-id="yhvh">יְהֹוָ֤ה</span><span data-hl-id="paseq">&thinsp;<span style="font-weight: bold;">׀</span></span><span data-hl-id="nbsp">&nbsp;</span><span data-hl-id="text1">נְחֵ֬נִי בְצִדְקָתֶ֗ךָ</span><span data-hl-id="rs1">⏎</span></div>
+<div><span data-hl-id="ind1">&emsp;&emsp;</span><span data-hl-id="lmaan">לְמַ֥עַן </span><span data-hl-id="shoraray">שׁוֹרְﬞרָ֑י</span><span data-hl-id="rs2">⏎</span></div>
+<div><span data-hl-id="ind2">&emsp;&emsp;</span><span data-hl-id="hoshar" style="color:Gray;">הושר</span><span data-hl-id="kuk-space"> </span><span data-hl-id="hayashar">הַיְשַׁ֖ר</span><span data-hl-id="text3"> לְפָנַ֣י דַּרְכֶּֽךָ׃</span></div></div></div><div class="col" style="flex:2;justify-content:flex-start"><pre><span style="color:#d4d4d4;">[</span><span style="color:#d4d4d4;">
   </span><bdi><span style="color:#ce9178; font-size:51px; font-feature-settings:'ss03'">"יְהֹוָ֤ה"</span></bdi><span style="color:#d4d4d4;">,</span><span style="color:#d4d4d4;">
   </span><span style="color:#d4d4d4;">{</span><span style="color:#9cdcfe;">"tmpl_name"</span><span style="color:#d4d4d4;">:</span><span style="color:#d4d4d4;"> </span><bdi><span style="color:#ce9178;">"מ:לגרמיה-2"</span></bdi><span style="color:#d4d4d4;">},</span><span style="color:#d4d4d4;">
   </span><span style="color:#d4d4d4;">{</span><span style="color:#9cdcfe;">"tmpl_name"</span><span style="color:#d4d4d4;">:</span><span style="color:#d4d4d4;"> </span><bdi><span style="color:#ce9178;">"ר0"</span></bdi><span style="color:#d4d4d4;">},</span><span style="color:#d4d4d4;">
@@ -254,9 +271,9 @@
 <div class="step" data-step="9"><div class="col" style="flex:2;flex-direction:column;justify-content:space-between;align-items:flex-start"><pre><span style="color:#d4d4d4; font-size:102px; font-feature-settings:'ss03'">{</span><span style="color:#9cdcfe; font-size:102px; font-feature-settings:'ss03'">"tmpl_name"</span><span style="color:#d4d4d4; font-size:102px; font-feature-settings:'ss03'">:</span><span style="color:#d4d4d4; font-size:102px; font-feature-settings:'ss03'"> </span><bdi><span style="color:#ce9178; font-size:102px; font-feature-settings:'ss03'">"כו\"ק"</span></bdi><span style="color:#d4d4d4; font-size:102px; font-feature-settings:'ss03'">,</span><span style="color:#d4d4d4; font-size:102px; font-feature-settings:'ss03'">
     </span><span style="color:#9cdcfe; font-size:102px; font-feature-settings:'ss03'">"tmpl_params"</span><span style="color:#d4d4d4; font-size:102px; font-feature-settings:'ss03'">:</span><span style="color:#d4d4d4; font-size:102px; font-feature-settings:'ss03'"> </span><span style="color:#d4d4d4; font-size:102px; font-feature-settings:'ss03'">{</span><span style="color:#d4d4d4; font-size:102px; font-feature-settings:'ss03'">
       </span><span style="color:#9cdcfe; font-size:102px; font-feature-settings:'ss03'">"1"</span><span style="color:#d4d4d4; font-size:102px; font-feature-settings:'ss03'">:</span><span style="color:#d4d4d4; font-size:102px; font-feature-settings:'ss03'"> </span><bdi><span style="color:#ce9178; font-size:102px; font-feature-settings:'ss03'">"הושר"</span></bdi><span style="color:#d4d4d4; font-size:102px; font-feature-settings:'ss03'">,</span><span style="color:#d4d4d4; font-size:102px; font-feature-settings:'ss03'">
-      </span><span style="color:#9cdcfe; font-size:102px; font-feature-settings:'ss03'">"2"</span><span style="color:#d4d4d4; font-size:102px; font-feature-settings:'ss03'">:</span><span style="color:#d4d4d4; font-size:102px; font-feature-settings:'ss03'"> </span><bdi><span style="color:#ce9178; font-size:102px; font-feature-settings:'ss03'">"הַיְשַׁ֖ר"</span></bdi><span style="color:#d4d4d4; font-size:102px; font-feature-settings:'ss03'">}}</span></pre><div class="companion-html"><div>יְהֹוָ֤ה&thinsp;<span style="font-weight: bold;">׀</span>&nbsp;נְחֵ֬נִי בְצִדְקָתֶ֗ךָ<span class="return-sym" style="display:none;">⏎</span></div>
-<div><span class="indent">&emsp;&emsp;</span>לְמַ֥עַן שׁוֹרְﬞרָ֑י</div>
-<div style="padding-right: 2em;"><span class="hl"><span style="color:Gray;">הושר</span></span> הַיְשַׁ֖ר לְפָנַ֣י דַּרְכֶּֽךָ׃</div></div></div><div class="col" style="flex:2;justify-content:flex-start"><pre><span style="color:#d4d4d4;">[</span><span style="color:#d4d4d4;">
+      </span><span style="color:#9cdcfe; font-size:102px; font-feature-settings:'ss03'">"2"</span><span style="color:#d4d4d4; font-size:102px; font-feature-settings:'ss03'">:</span><span style="color:#d4d4d4; font-size:102px; font-feature-settings:'ss03'"> </span><bdi><span style="color:#ce9178; font-size:102px; font-feature-settings:'ss03'">"הַיְשַׁ֖ר"</span></bdi><span style="color:#d4d4d4; font-size:102px; font-feature-settings:'ss03'">}}</span></pre><div class="companion-html"><div><span data-hl-id="yhvh">יְהֹוָ֤ה</span><span data-hl-id="paseq">&thinsp;<span style="font-weight: bold;">׀</span></span><span data-hl-id="nbsp">&nbsp;</span><span data-hl-id="text1">נְחֵ֬נִי בְצִדְקָתֶ֗ךָ</span><span data-hl-id="rs1">⏎</span></div>
+<div><span data-hl-id="ind1">&emsp;&emsp;</span><span data-hl-id="lmaan">לְמַ֥עַן </span><span data-hl-id="shoraray">שׁוֹרְﬞרָ֑י</span><span data-hl-id="rs2">⏎</span></div>
+<div><span data-hl-id="ind2">&emsp;&emsp;</span><span data-hl-id="hoshar" style="color:Gray;">הושר</span><span data-hl-id="kuk-space"> </span><span data-hl-id="hayashar">הַיְשַׁ֖ר</span><span data-hl-id="text3"> לְפָנַ֣י דַּרְכֶּֽךָ׃</span></div></div></div><div class="col" style="flex:2;justify-content:flex-start"><pre><span style="color:#d4d4d4;">[</span><span style="color:#d4d4d4;">
   </span><bdi><span style="color:#ce9178; font-size:51px; font-feature-settings:'ss03'">"יְהֹוָ֤ה"</span></bdi><span style="color:#d4d4d4;">,</span><span style="color:#d4d4d4;">
   </span><span style="color:#d4d4d4;">{</span><span style="color:#9cdcfe;">"tmpl_name"</span><span style="color:#d4d4d4;">:</span><span style="color:#d4d4d4;"> </span><bdi><span style="color:#ce9178;">"מ:לגרמיה-2"</span></bdi><span style="color:#d4d4d4;">},</span><span style="color:#d4d4d4;">
   </span><span style="color:#d4d4d4;">{</span><span style="color:#9cdcfe;">"tmpl_name"</span><span style="color:#d4d4d4;">:</span><span style="color:#d4d4d4;"> </span><bdi><span style="color:#ce9178;">"ר0"</span></bdi><span style="color:#d4d4d4;">},</span><span style="color:#d4d4d4;">
@@ -275,9 +292,9 @@
   </span><bdi><span style="color:#ce9178; font-size:51px; font-feature-settings:'ss03'">" לְפָנַ֣י דַּרְכֶּֽךָ׃"</span></bdi><span style="color:#d4d4d4;">
 </span><span style="color:#d4d4d4;">]</span><span style="color:#d4d4d4;">
 </span></pre></div></div>
-<div class="step" data-step="10"><div class="col" style="flex:2;flex-direction:column;justify-content:space-between;align-items:flex-start"><pre><bdi><span style="color:#ce9178; font-size:102px; font-feature-settings:'ss03'">" לְפָנַ֣י דַּרְכֶּֽךָ׃"</span></bdi></pre><div class="companion-html"><div>יְהֹוָ֤ה&thinsp;<span style="font-weight: bold;">׀</span>&nbsp;נְחֵ֬נִי בְצִדְקָתֶ֗ךָ<span class="return-sym" style="display:none;">⏎</span></div>
-<div><span class="indent">&emsp;&emsp;</span>לְמַ֥עַן שׁוֹרְﬞרָ֑י</div>
-<div style="padding-right: 2em;"><span style="color:Gray;">הושר</span> הַיְשַׁ֖ר לְפָנַ֣י דַּרְכֶּֽךָ׃</div></div></div><div class="col" style="flex:2;justify-content:flex-start"><pre><span style="color:#d4d4d4;">[</span><span style="color:#d4d4d4;">
+<div class="step" data-step="10"><div class="col" style="flex:2;flex-direction:column;justify-content:space-between;align-items:flex-start"><pre><bdi><span style="color:#ce9178; font-size:102px; font-feature-settings:'ss03'">" לְפָנַ֣י דַּרְכֶּֽךָ׃"</span></bdi></pre><div class="companion-html"><div><span data-hl-id="yhvh">יְהֹוָ֤ה</span><span data-hl-id="paseq">&thinsp;<span style="font-weight: bold;">׀</span></span><span data-hl-id="nbsp">&nbsp;</span><span data-hl-id="text1">נְחֵ֬נִי בְצִדְקָתֶ֗ךָ</span><span data-hl-id="rs1">⏎</span></div>
+<div><span data-hl-id="ind1">&emsp;&emsp;</span><span data-hl-id="lmaan">לְמַ֥עַן </span><span data-hl-id="shoraray">שׁוֹרְﬞרָ֑י</span><span data-hl-id="rs2">⏎</span></div>
+<div><span data-hl-id="ind2">&emsp;&emsp;</span><span data-hl-id="hoshar" style="color:Gray;">הושר</span><span data-hl-id="kuk-space"> </span><span data-hl-id="hayashar">הַיְשַׁ֖ר</span><span data-hl-id="text3"> לְפָנַ֣י דַּרְכֶּֽךָ׃</span></div></div></div><div class="col" style="flex:2;justify-content:flex-start"><pre><span style="color:#d4d4d4;">[</span><span style="color:#d4d4d4;">
   </span><bdi><span style="color:#ce9178; font-size:51px; font-feature-settings:'ss03'">"יְהֹוָ֤ה"</span></bdi><span style="color:#d4d4d4;">,</span><span style="color:#d4d4d4;">
   </span><span style="color:#d4d4d4;">{</span><span style="color:#9cdcfe;">"tmpl_name"</span><span style="color:#d4d4d4;">:</span><span style="color:#d4d4d4;"> </span><bdi><span style="color:#ce9178;">"מ:לגרמיה-2"</span></bdi><span style="color:#d4d4d4;">},</span><span style="color:#d4d4d4;">
   </span><span style="color:#d4d4d4;">{</span><span style="color:#9cdcfe;">"tmpl_name"</span><span style="color:#d4d4d4;">:</span><span style="color:#d4d4d4;"> </span><bdi><span style="color:#ce9178;">"ר0"</span></bdi><span style="color:#d4d4d4;">},</span><span style="color:#d4d4d4;">

diff --git a/misc/mam-is-a-dataset/img-sources/Psalm 5v9 Wikisource fragment.html b/misc/mam-is-a-dataset/img-sources/Psalm 5v9 Wikisource fragment.html
@@ -1,3 +1,3 @@
-<div>יְהֹוָ֤ה&thinsp;<span style="font-weight: bold;">׀</span>&nbsp;נְחֵ֬נִי בְצִדְקָתֶ֗ךָ<span class="return-sym" style="display:none;">⏎</span></div>
-<div><span class="indent">&emsp;&emsp;</span>לְמַ֥עַן שׁוֹרְﬞרָ֑י</div>
-<div style="padding-right: 2em;"><span style="color:Gray;">הושר</span> הַיְשַׁ֖ר לְפָנַ֣י דַּרְכֶּֽךָ׃</div>
+<div><span data-hl-id="yhvh">יְהֹוָ֤ה</span><span data-hl-id="paseq">&thinsp;<span style="font-weight: bold;">׀</span></span><span data-hl-id="nbsp">&nbsp;</span><span data-hl-id="text1">נְחֵ֬נִי בְצִדְקָתֶ֗ךָ</span><span data-hl-id="rs1">⏎</span></div>
+<div><span data-hl-id="ind1">&emsp;&emsp;</span><span data-hl-id="lmaan">לְמַ֥עַן </span><span data-hl-id="shoraray">שׁוֹרְﬞרָ֑י</span><span data-hl-id="rs2">⏎</span></div>
+<div><span data-hl-id="ind2">&emsp;&emsp;</span><span data-hl-id="hoshar" style="color:Gray;">הושר</span><span data-hl-id="kuk-space"> </span><span data-hl-id="hayashar">הַיְשַׁ֖ר</span><span data-hl-id="text3"> לְפָנַ֣י דַּרְכֶּֽךָ׃</span></div>

diff --git a/py/slide_generator/mam_is_a_dataset.py b/py/slide_generator/mam_is_a_dataset.py
@@ -96,37 +96,28 @@ def render_psalm_5v9_mpplus_steps():
         {},  # step 0: no highlight — base view
         {
             "highlight_text": '"יְהֹוָ֤ה"',
-            "companion_highlight_html": "יְהֹוָ֤ה",
+            "companion_hl_ids": ["yhvh"],
         },
         {
             "highlight_text": '{"tmpl_name": "מ:לגרמיה-2"}',
-            "companion_highlight_html": '&thinsp;<span style="font-weight: bold;">׀</span>',
+            "companion_hl_ids": ["paseq"],
         },
         {
             "highlight_text": '{"tmpl_name": "ר0"}',
-            "companion_highlight_html": "&nbsp;",
+            "companion_hl_ids": ["nbsp"],
         },
         {
             "highlight_text": '"נְחֵ֬נִי בְצִדְקָתֶ֗ךָ"',
-            "companion_highlight_html": "נְחֵ֬נִי בְצִדְקָתֶ֗ךָ",
+            "companion_hl_ids": ["text1"],
         },
         {
             "highlight_text": '{"tmpl_name": "ר1"}',
             "highlight_occurrence": 1,
-            "companion_raw_replacements": [
-                [
-                    '<span class="return-sym" style="display:none;">⏎</span>',
-                    '<span class="return-sym hl">⏎</span>',
-                ],
-                [
-                    '<span class="indent">',
-                    '<span class="indent hl">',
-                ],
-            ],
+            "companion_hl_ids": ["rs1", "ind1"],
         },
         {
             "highlight_text": '"לְמַ֥עַן "',
-            "companion_highlight_html": "לְמַ֥עַן ",
+            "companion_hl_ids": ["lmaan"],
         },
         {
             "highlight_text": (
@@ -135,19 +126,20 @@ def render_psalm_5v9_mpplus_steps():
                 '      "1": "שׁוֹרְﬞרָ֑י",\n'
                 '      "2": "א=שׁוֹרֲרָ֑י (חטף)"}}'
             ),
-            "companion_highlight_html": "שׁוֹרְﬞרָ֑י",
+            "companion_hl_ids": ["shoraray"],
         },
         {
             "highlight_text": '{"tmpl_name": "ר1"}',
             "highlight_occurrence": 2,
+            "companion_hl_ids": ["rs2", "ind2"],
         },
         {
             "highlight_text": _kuk_object,
-            "companion_highlight_html": '<span style="color:Gray;">הושר</span>',
+            "companion_hl_ids": ["hoshar", "kuk-space", "hayashar"],
         },
         {
             "highlight_text": '"' + _last_str + '"',
-            "companion_highlight_html": _last_str,
+            "companion_hl_ids": ["text3"],
         },
     ]
     json_snippet_browser.render_json_snippet_browser_steps(

diff --git a/py/py_misc/json_snippet_browser.py b/py/py_misc/json_snippet_browser.py
@@ -298,6 +298,7 @@ def _build_multistep_html(
     br, bg, bb = bot_rgb
 
     step_divs = []
+    extra_css_rules = []
     for step_idx, spec in enumerate(steps):
         highlight_text = spec.get("highlight_text")
         highlight_occurrence = spec.get("highlight_occurrence", 1)
@@ -385,18 +386,25 @@ def _build_multistep_html(
         zoom_html = "".join(zoom_spans)
 
         # Companion panel.
-        _hl_key = (
-            companion_highlight_html
-            if companion_highlight_html is not None
-            else highlight_text
-        )
-        hl_companion = (
-            _highlight_companion_html(companion_html, _hl_key)
-            if _hl_key
-            else companion_html
-        )
-        for _old, _new in spec.get("companion_raw_replacements", []):
-            hl_companion = hl_companion.replace(_old, _new, 1)
+        companion_hl_ids = spec.get("companion_hl_ids")
+        if companion_hl_ids is not None:
+            for hl_id in companion_hl_ids:
+                extra_css_rules.append(
+                    f'.step[data-step="{step_idx}"] [data-hl-id="{hl_id}"] {{'
+                    f" background-color: rgba(255,210,0,0.4); border-radius: 3px; display: inline; }}"
+                )
+            hl_companion = companion_html
+        else:
+            _hl_key = (
+                companion_highlight_html
+                if companion_highlight_html is not None
+                else highlight_text
+            )
+            hl_companion = (
+                _highlight_companion_html(companion_html, _hl_key)
+                if _hl_key
+                else companion_html
+            )
         companion_content = f'<div class="companion-html">{hl_companion}</div>'
 
         # Build the step div (hidden by default).
@@ -418,6 +426,7 @@ def _build_multistep_html(
         step_divs.append(f'<div class="step" data-step="{step_idx}">{inner}</div>')
 
     all_steps_html = "\n".join(step_divs)
+    extra_css = ("\n  " + "\n  ".join(extra_css_rules)) if extra_css_rules else ""
     return f"""<!DOCTYPE html>
 <html>
 <head>
@@ -468,6 +477,9 @@ def _build_multistep_html(
     background-color: rgba(255, 210, 0, 0.4);
     border-radius: 3px;
   }}
+  [data-hl-id="rs1"], [data-hl-id="rs2"] {{
+    display: none;
+  }}
   pre {{
     font-family: 'Taamey', 'Consolas', monospace;
     font-size: {font_size_px}px;
@@ -475,7 +487,7 @@ def _build_multistep_html(
     direction: ltr;
     unicode-bidi: normal;
     white-space: pre;
-  }}
+  }}{extra_css}
 </style>
 </head>
 <body>
